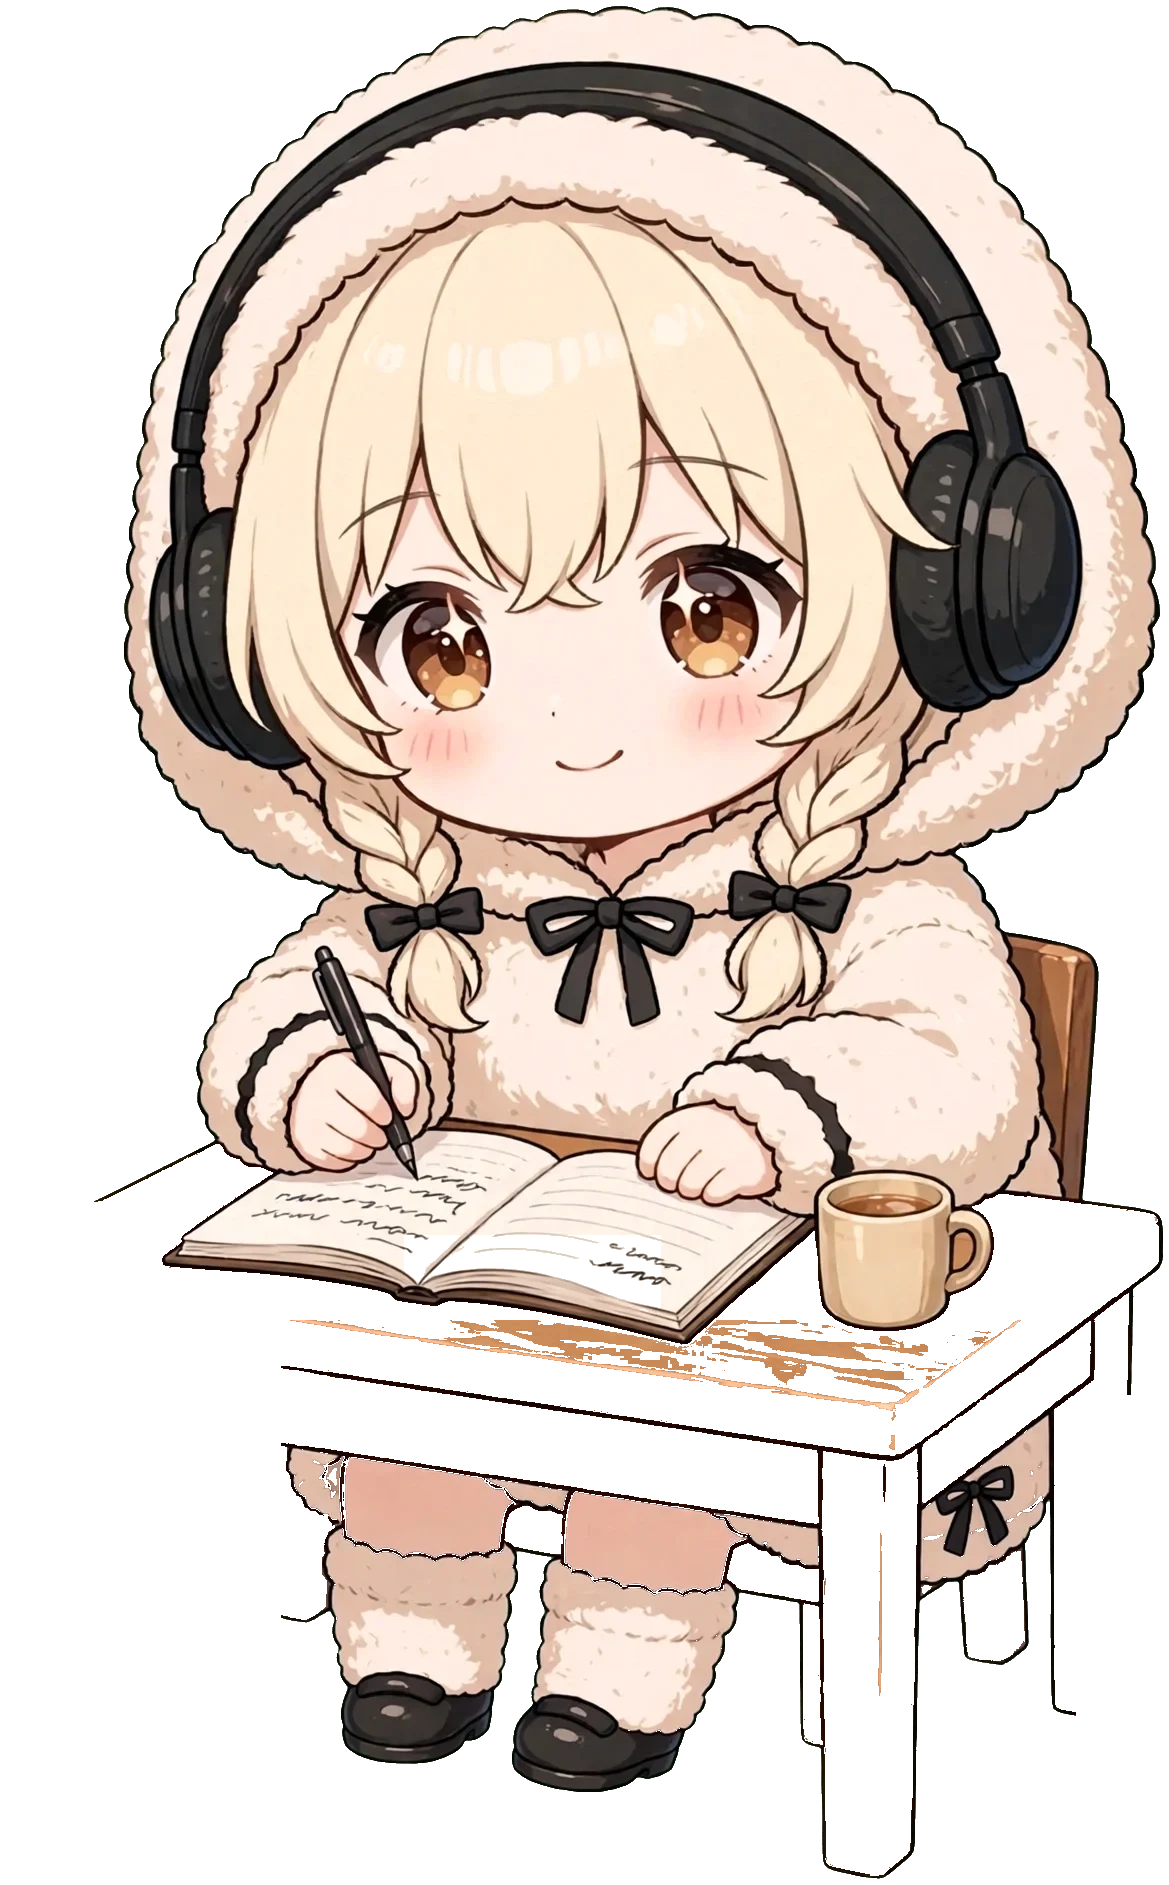
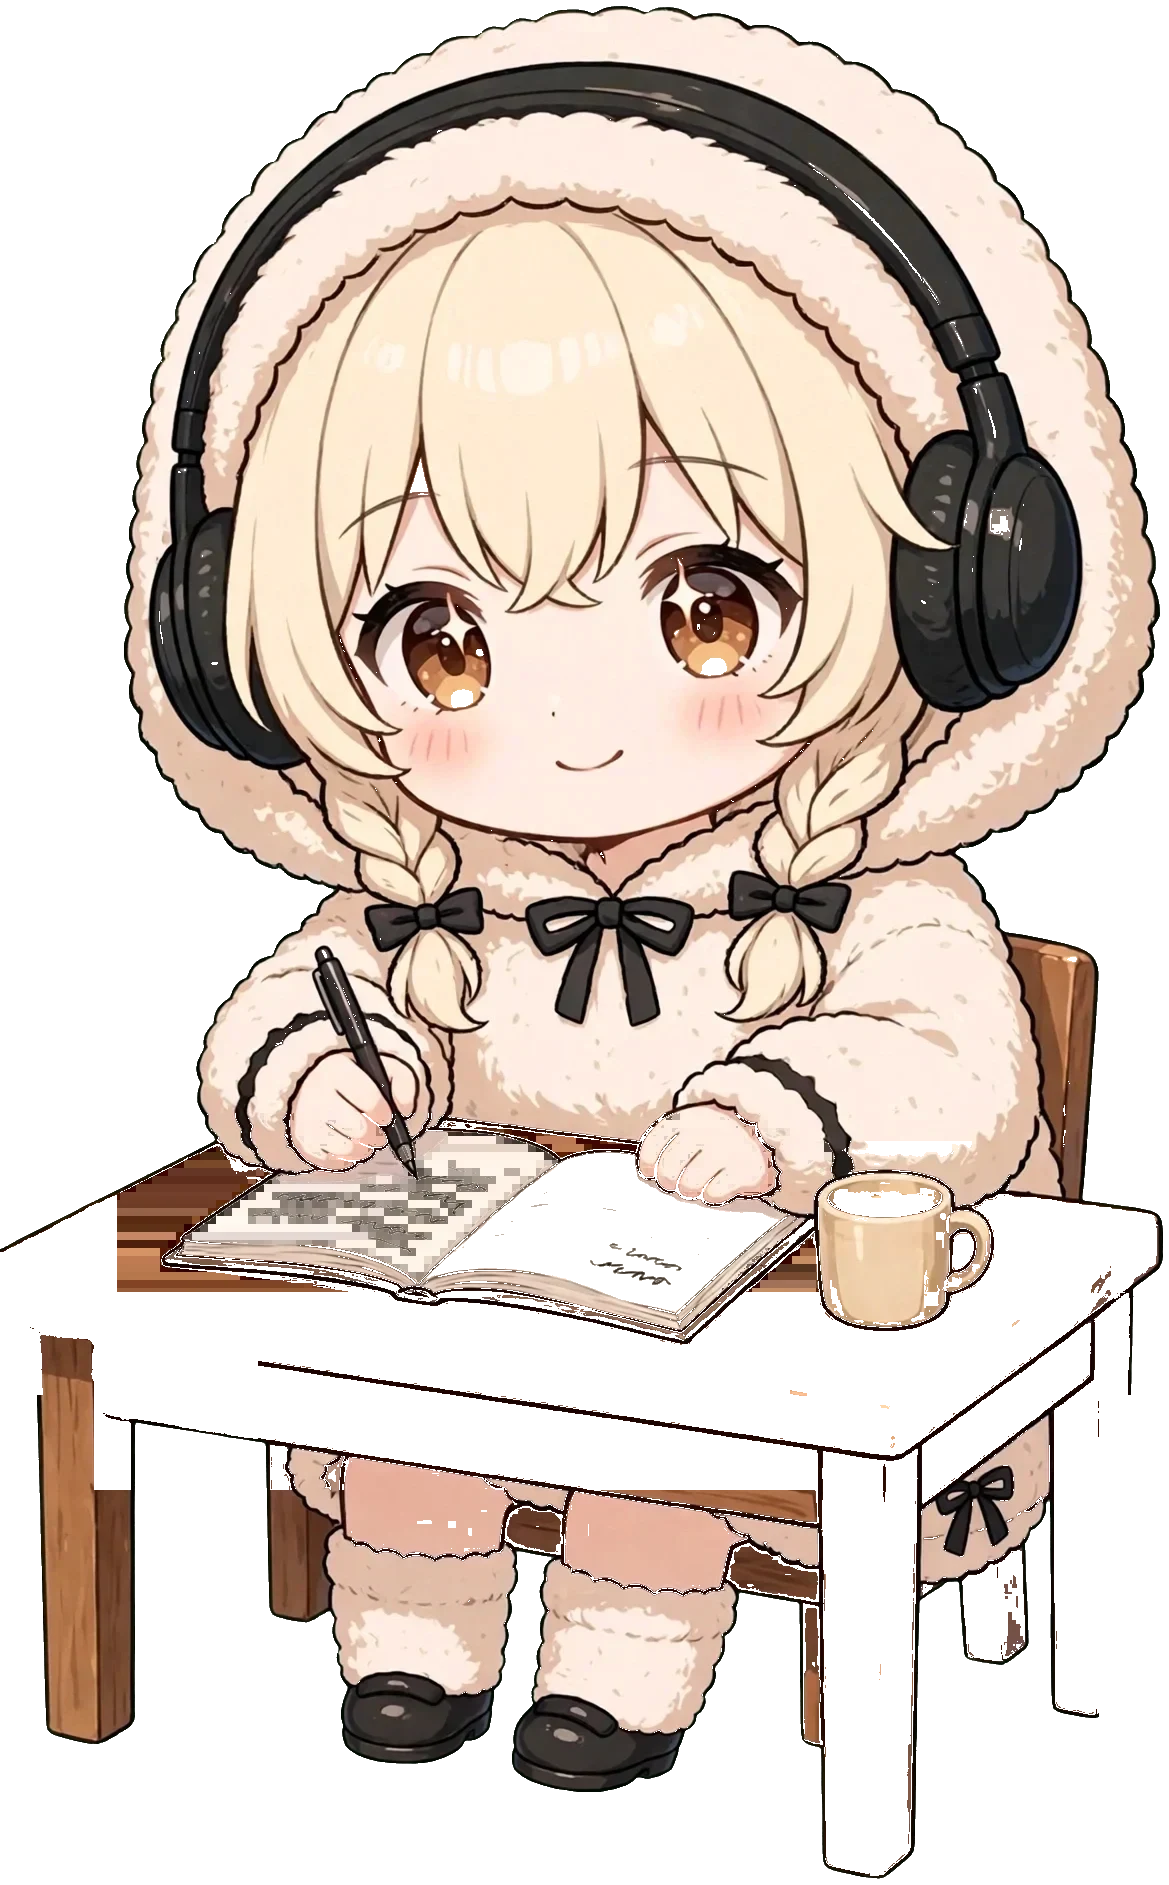
小屋收尾：书桌桌面像素归属修复（笔记本/杯子/木纹归位、幽灵手移回人物层）+ 家具资产来源标记 + 跨标签页存档同步

diff --git a/lib/room.ts b/lib/room.ts
@@ -245,6 +245,9 @@ export interface FurnitureDef {
   price: number;
   /** 是否有互动（绿植一期为纯装饰） */
   interactive: boolean;
+  /** 资产来源（可追溯）：composite=合体图拆层；independent-base=单体独立生成（仅地毯特例：
+      她坐姿遮挡的毯心无法从合体图还原，故按同一设计单独生成单体，人物层仍拆自合体图） */
+  assetMode: "composite" | "independent-base";
   /** 互动持续 ms */
   duration: number;
   /** 互动一次的亲密度经验（完成时结算） */
@@ -261,6 +264,7 @@ const R = "/muse-room";
 export const FURNITURE: Record<FurnitureId, FurnitureDef> = {
   rug: {
     id: "rug",
+    assetMode: "independent-base",
     slot: "rug",
     price: 20,
     interactive: true,
@@ -275,6 +279,7 @@ export const FURNITURE: Record<FurnitureId, FurnitureDef> = {
   },
   bookshelf: {
     id: "bookshelf",
+    assetMode: "composite",
     slot: "shelf",
     price: 40,
     interactive: true,
@@ -289,6 +294,7 @@ export const FURNITURE: Record<FurnitureId, FurnitureDef> = {
   },
   desk: {
     id: "desk",
+    assetMode: "composite",
     slot: "desk",
     price: 60,
     interactive: true,
@@ -303,6 +309,7 @@ export const FURNITURE: Record<FurnitureId, FurnitureDef> = {
   },
   plant: {
     id: "plant",
+    assetMode: "composite",
     slot: "corner",
     price: 30,
     interactive: false,

diff --git a/components/muse-room.tsx b/components/muse-room.tsx
@@ -16,6 +16,7 @@ import {
   doCheckin,
   feed,
   intimacyLevel,
+  ROOM_KEY,
   loadSave,
   persistSave,
   pickAutoTarget,
@@ -261,6 +262,17 @@ export function MuseRoom() {
       clearTimers();
     };
     // eslint-disable-next-line react-hooks/exhaustive-deps
+  }, []);
+
+  // 其他标签页写入存档时同步过来（双开标签时不互相覆盖进度显示）
+  useEffect(() => {
+    const onStorage = (e: StorageEvent) => {
+      if (e.key !== ROOM_KEY || !e.newValue) return;
+      const now = Date.now();
+      setSave(settle(loadSave(now), now));
+    };
+    window.addEventListener("storage", onStorage);
+    return () => window.removeEventListener("storage", onStorage);
   }, []);
 
   // ---------------- 访客操作 ----------------
